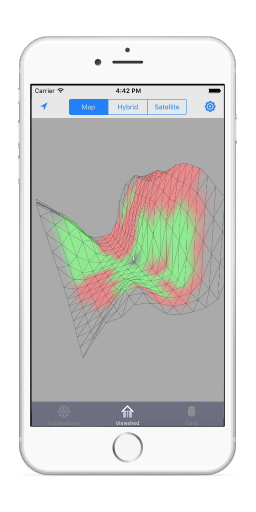
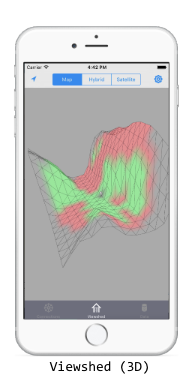
Update to version 4.0.4; update README; refactor ElevationScene to remove unneeded code

diff --git a/Demo/FogViewshed/FogViewshed/Models/Elevation/ElevationScene.swift b/Demo/FogViewshed/FogViewshed/Models/Elevation/ElevationScene.swift
@@ -11,23 +11,21 @@ import MapKit
 class ElevationScene: SCNNode {
     
     // MARK: Variables
-    
+
     var elevation:[[Int]]
-    var increment:Float
     var vertexSource:SCNGeometrySource
     var maxScaledElevation:Float
     var image:UIImage?
+    let cellSize:Float = 1.0
     
     // MARK: Initializer
     
-    init(elevation: [[Int]], increment: Float, viewshedImage: UIImage?) {
-        self.elevation = []
-        self.increment = increment
+    init(elevation: [[Int]], viewshedImage: UIImage?) {
+        self.elevation = elevation
         self.vertexSource = SCNGeometrySource()
         self.maxScaledElevation = 1.0
         self.image = viewshedImage
         super.init()
-        self.elevation = rotateElevationXAxis(elevation)
     }
     
     required init?(coder aDecoder: NSCoder) {
@@ -44,8 +42,8 @@ class ElevationScene: SCNNode {
         self.addChildNode(generateLineNode(vertexSource, vertexCount: vertexSource.vectorCount))
     }
     
-    func addObserver(altitude: Double) {
-        self.addChildNode(generateObserverNode(altitude))
+    func addObserver(location: (Int, Int), altitude: Double) {
+        self.addChildNode(generateObserverNode(location, altitude: altitude))
     }
     
     func addCamera() {
@@ -53,16 +51,6 @@ class ElevationScene: SCNNode {
     }
     
     // MARK: Private Functions
-    
-    private func rotateElevationXAxis(inElevation:[[Int]]) -> [[Int]] {
-        var outElevation:[[Int]] = []
-        var rows = inElevation.count - 1
-        while (rows >= 0) {
-            outElevation.append(inElevation[rows])
-            rows = rows - 1
-        }
-        return outElevation
-    }
     
     private func createGeometry() -> SCNGeometry {
         let geometry:SCNGeometry = calculateGeometry()
@@ -79,11 +67,10 @@ class ElevationScene: SCNNode {
 
         for row in 0..<(maxRows - 1) {
             for column in 0..<(maxColumns - 1) {
-                
-                let topLeftZ = Float(boundElevation(elevation[row][column]))
-                let topRightZ = Float(boundElevation(elevation[row][column + 1]))
-                let bottomLeftZ = Float(boundElevation(elevation[row + 1][column]))
-                let bottomRightZ = Float(boundElevation(elevation[row + 1][column + 1]))
+                let topLeftZ = getElevationValue(row, column: column)
+                let topRightZ = getElevationValue(row, column: column + 1)
+                let bottomLeftZ = getElevationValue(row + 1, column: column)
+                let bottomRightZ = getElevationValue(row + 1, column: column + 1)
 
                 let coordX = Float(column)
                 let coordY = Float(row)
@@ -92,16 +79,16 @@ class ElevationScene: SCNNode {
                                              Float(-coordY),
                                              Float(topLeftZ))
                 
-                let topRight = SCNVector3Make(Float(coordX)+Float(increment),
+                let topRight = SCNVector3Make(Float(coordX) + cellSize,
                                               Float(-coordY),
                                               Float(topRightZ))
                 
                 let bottomLeft = SCNVector3Make(Float(coordX),
-                                                Float(-coordY)-Float(increment),
+                                                Float(-coordY) - cellSize,
                                                 Float(bottomLeftZ))
                 
-                let bottomRight = SCNVector3Make(Float(coordX)+Float(increment),
-                                                 Float(-coordY)-Float(increment),
+                let bottomRight = SCNVector3Make(Float(coordX) + cellSize,
+                                                 Float(-coordY) - cellSize,
                                                  Float(bottomRightZ))
                 
                 vertices.append(topLeft)
@@ -157,11 +144,11 @@ class ElevationScene: SCNNode {
         var geometryCount: CInt = 0
         while (geometryCount < CInt(vertexSource.vectorCount)) {
             geometryData.append(geometryCount)
-            geometryData.append(geometryCount+2)
-            geometryData.append(geometryCount+1)
+            geometryData.append(geometryCount + 2)
+            geometryData.append(geometryCount + 1)
             geometryData.append(geometryCount)
-            geometryData.append(geometryCount+3)
-            geometryData.append(geometryCount+2)
+            geometryData.append(geometryCount + 3)
+            geometryData.append(geometryCount + 2)
             geometryCount += 4
         }
         let element:SCNGeometryElement = SCNGeometryElement(indices: geometryData, primitiveType: .Triangles)
@@ -185,15 +172,15 @@ class ElevationScene: SCNNode {
         return geometry
     }
     
-    private func generateObserverNode(altitude: Double) -> SCNNode {
+    private func generateObserverNode(location: (Int, Int), altitude: Double) -> SCNNode {
         let observerCapsule = SCNCapsule(capRadius: 0.125, height: 0.5)
         let capsuleSizeFactor:Float = 0.25
         let observerNode = SCNNode(geometry: observerCapsule)
-        let column: Int = (elevation.count) / 2
-        let row: Int = (elevation[0].count) / 2
-        let observerY:Float = -Float(column)
-        let observerX:Float = Float(row)
-        let boundedElevation:Float = boundElevation(elevation[column - 1][row - 1], altitude: Float(altitude))
+        let row: Int = location.1
+        let column: Int = location.0
+        let observerY:Float = -Float(row)
+        let observerX:Float = Float(column)
+        let boundedElevation:Float = getElevationValue(row - 1, column: column - 1, altitude: Float(altitude))
         let observerZ: Float = Float(boundedElevation) + capsuleSizeFactor
         observerNode.position = SCNVector3Make(observerX, observerY, observerZ)
         observerNode.eulerAngles = SCNVector3Make(Float(M_PI_2), 0, 0)
@@ -206,15 +193,15 @@ class ElevationScene: SCNNode {
         var lineCount: CInt = 0
         while (lineCount < CInt(vertexCount)) {
             lineData.append(lineCount)
-            lineData.append(lineCount+1)
-            lineData.append(lineCount+1)
-            lineData.append(lineCount+2)
-            lineData.append(lineCount+2)
-            lineData.append(lineCount+3)
-            lineData.append(lineCount+3)
+            lineData.append(lineCount + 1)
+            lineData.append(lineCount + 1)
+            lineData.append(lineCount + 2)
+            lineData.append(lineCount + 2)
+            lineData.append(lineCount + 3)
+            lineData.append(lineCount + 3)
             lineData.append(lineCount)
-            lineData.append(lineCount+0)
-            lineData.append(lineCount+2)
+            lineData.append(lineCount + 0)
+            lineData.append(lineCount + 2)
             lineCount = lineCount + 4
         }
         
@@ -234,13 +221,22 @@ class ElevationScene: SCNNode {
     private func generateCameraNode() -> SCNNode {
         let cameraNode = SCNNode()
         cameraNode.camera = SCNCamera()
-        let cameraFactor = 20
-        let cameraZ = Float(Int(maxScaledElevation) + cameraFactor)
+        // Add an additional 20 cellSize units to set the camera above the scene
+        let cameraFactor:Float = self.cellSize * 20
+        let cameraZ = maxScaledElevation + cameraFactor
         let cameraX:Float = Float(elevation[0].count / 2)
         let cameraY:Float = -Float(elevation.count / 2)
         cameraNode.position = SCNVector3Make(cameraX, cameraY, cameraZ)
         
         return cameraNode
+    }
+    
+    private func getElevationValue(row: Int, column: Int, altitude:Float = 0.0) -> Float {
+        let maxRows:Int = elevation.count - 1
+        let actualRow:Int = maxRows - row
+        let elevationValue: Float = boundElevation(elevation[actualRow][column])
+        
+        return elevationValue
     }
     
     // Bound elevation to remove data voids and unknown values
@@ -254,8 +250,10 @@ class ElevationScene: SCNNode {
             boundedElevation = Float(Elevation.MAX_BOUND)
         }
 
-        // Resolution of each increment
-        let sizeFactor:Float = 30.0
+        // Scale elevation by 99.7% to render in the Scene
+        let scaleFactor:Float = 0.997
+        let elevationRange:Float = Float(Elevation.MAX_BOUND - Elevation.MIN_BOUND)
+        let sizeFactor:Float = elevationRange - elevationRange * scaleFactor
         
         boundedElevation = (boundedElevation + altitude) / sizeFactor
         

diff --git a/Demo/FogViewshed/FogViewshed/Controllers/ViewshedViewController.swift b/Demo/FogViewshed/FogViewshed/Controllers/ViewshedViewController.swift
@@ -72,13 +72,7 @@ class ViewshedViewController: UIViewController, MKMapViewDelegate, CLLocationMan
         } else {
             self.locationManager.startUpdatingLocation()
         }
-        
-        //TODO: Added for testing purposes
-        let location:CLLocation = CLLocation(latitude: 38.5, longitude: -76.5)
-        let center = CLLocationCoordinate2D(latitude: location.coordinate.latitude, longitude: location.coordinate.longitude)
-        let region = MKCoordinateRegion(center: center, span: MKCoordinateSpan(latitudeDelta: 4, longitudeDelta: 4))
-        self.mapView?.centerCoordinate = location.coordinate
-        self.mapView.setRegion(region, animated: true)
+
     }
     
     override func viewWillAppear(animated: Bool) {
@@ -295,18 +289,17 @@ class ViewshedViewController: UIViewController, MKMapViewDelegate, CLLocationMan
         let viewshedScene = SCNScene()
         viewshedSceneView.scene = viewshedScene
         
-        let increment:Float = 1.0
         let location:CGPoint = CGPoint.init(x: elevationDataGrid.boundingBoxAreaExtent.getCentroid().latitude, y: elevationDataGrid.boundingBoxAreaExtent.getCentroid().longitude)
-
+        let observerGridLocation:(Int, Int) = HGTManager.latLonToIndex(elevationDataGrid.boundingBoxAreaExtent.getCentroid(), boundingBox: elevationDataGrid.boundingBoxAreaExtent, resolution: elevationDataGrid.resolution)
         var viewshedImage:UIImage? = nil
         if let image = viewshedResultImage[String(location)] {
             viewshedImage = image
         }
         
-        let elevationNode:ElevationScene = ElevationScene(elevation: elevationDataGrid.data, increment: increment, viewshedImage: viewshedImage)
+        let elevationNode:ElevationScene = ElevationScene(elevation: elevationDataGrid.data, viewshedImage: viewshedImage)
         elevationNode.generateScene()
         elevationNode.drawVertices()
-        elevationNode.addObserver(settingsObserver.elevationInMeters)
+        elevationNode.addObserver(observerGridLocation, altitude: settingsObserver.elevationInMeters)
         elevationNode.addCamera()
         viewshedScene.rootNode.addChildNode(elevationNode)
         

diff --git a/Demo/FogViewshed/FogViewshed/Models/HGT/HGTFile.swift b/Demo/FogViewshed/FogViewshed/Models/HGT/HGTFile.swift
@@ -58,7 +58,7 @@ class HGTFile: NSObject {
         return fileSize
     }
     
-    // this is the adjusted resoultion of the file.  files contain signed two byte integers
+    // Get adjusted resolution of the file.  Files contain signed two byte integers
     func getResolution() -> Int {
         return Int(sqrt(Double(getFileSizeInBytes()/2))) - 1
     }

diff --git a/README.md b/README.md
@@ -9,10 +9,12 @@ The Fog Machine framework is a research and development effort to harness the co
 There are two demo apps provided to showcase the Fog Machine framework:  
   1. The FogStringSearch app is a simple text search that uses the [Knuth–Morris–Pratt](https://en.wikipedia.org/wiki/Knuth%E2%80%93Morris%E2%80%93Pratt_algorithm) string search algorithm to find a search term within a given text.  
   2. The FogViewshed app calculates the [viewshed](https://en.wikipedia.org/wiki/Viewshed) of a position.  A viewshed is the geographical area that is visible from a location. It includes all surrounding points in line-of-sight with the location and excludes points that are beyond the horizon or obstructed by terrain and other features.  The viewshed app demonstrates the true power and flexibility of the Fog Machine framework.
-    1. The FogViewshed app also has a 3D rendering of the elevation.
+    1. The FogViewshed app will also provide a 2D and 3D rendering of the [digital elevation model](https://en.wikipedia.org/wiki/Digital_elevation_model) (DEM) data. The 3D rendering will overlay the last generated DEM or viewshed for the position.
 
-    ![viewshed on phones](Screenshots/viewshed/viewshed.png)
-    ![viewshed3D on phones](Screenshots/viewshed/viewshed3D.png)
+        ![dem2D on phone](Screenshots/viewshed/dem2D.png)
+        ![dem3D on phone](Screenshots/viewshed/dem3D.png)
+        ![viewshed on phone](Screenshots/viewshed/viewshed2D.png)
+        ![viewshedDem3D gif on phone](Screenshots/viewshed/viewshed3D.png)
 
 
 Fog Machine was developed at the National Geospatial-Intelligence Agency (NGA) in collaboration with BIT Systems. The government has "unlimited rights" and is releasing this software to increase the impact of government investments by providing developers with the opportunity to take things in new directions. The software use, modification, and distribution rights are stipulated within the MIT license.
@@ -34,7 +36,7 @@ source 'https://github.com/CocoaPods/Specs.git'
 platform :ios, '9.0'
 
 target 'TargetName' do
-pod 'FogMachine', '~> 4.0.3'
+pod 'FogMachine', '~> 4.0.4'
 end
 ```
 
